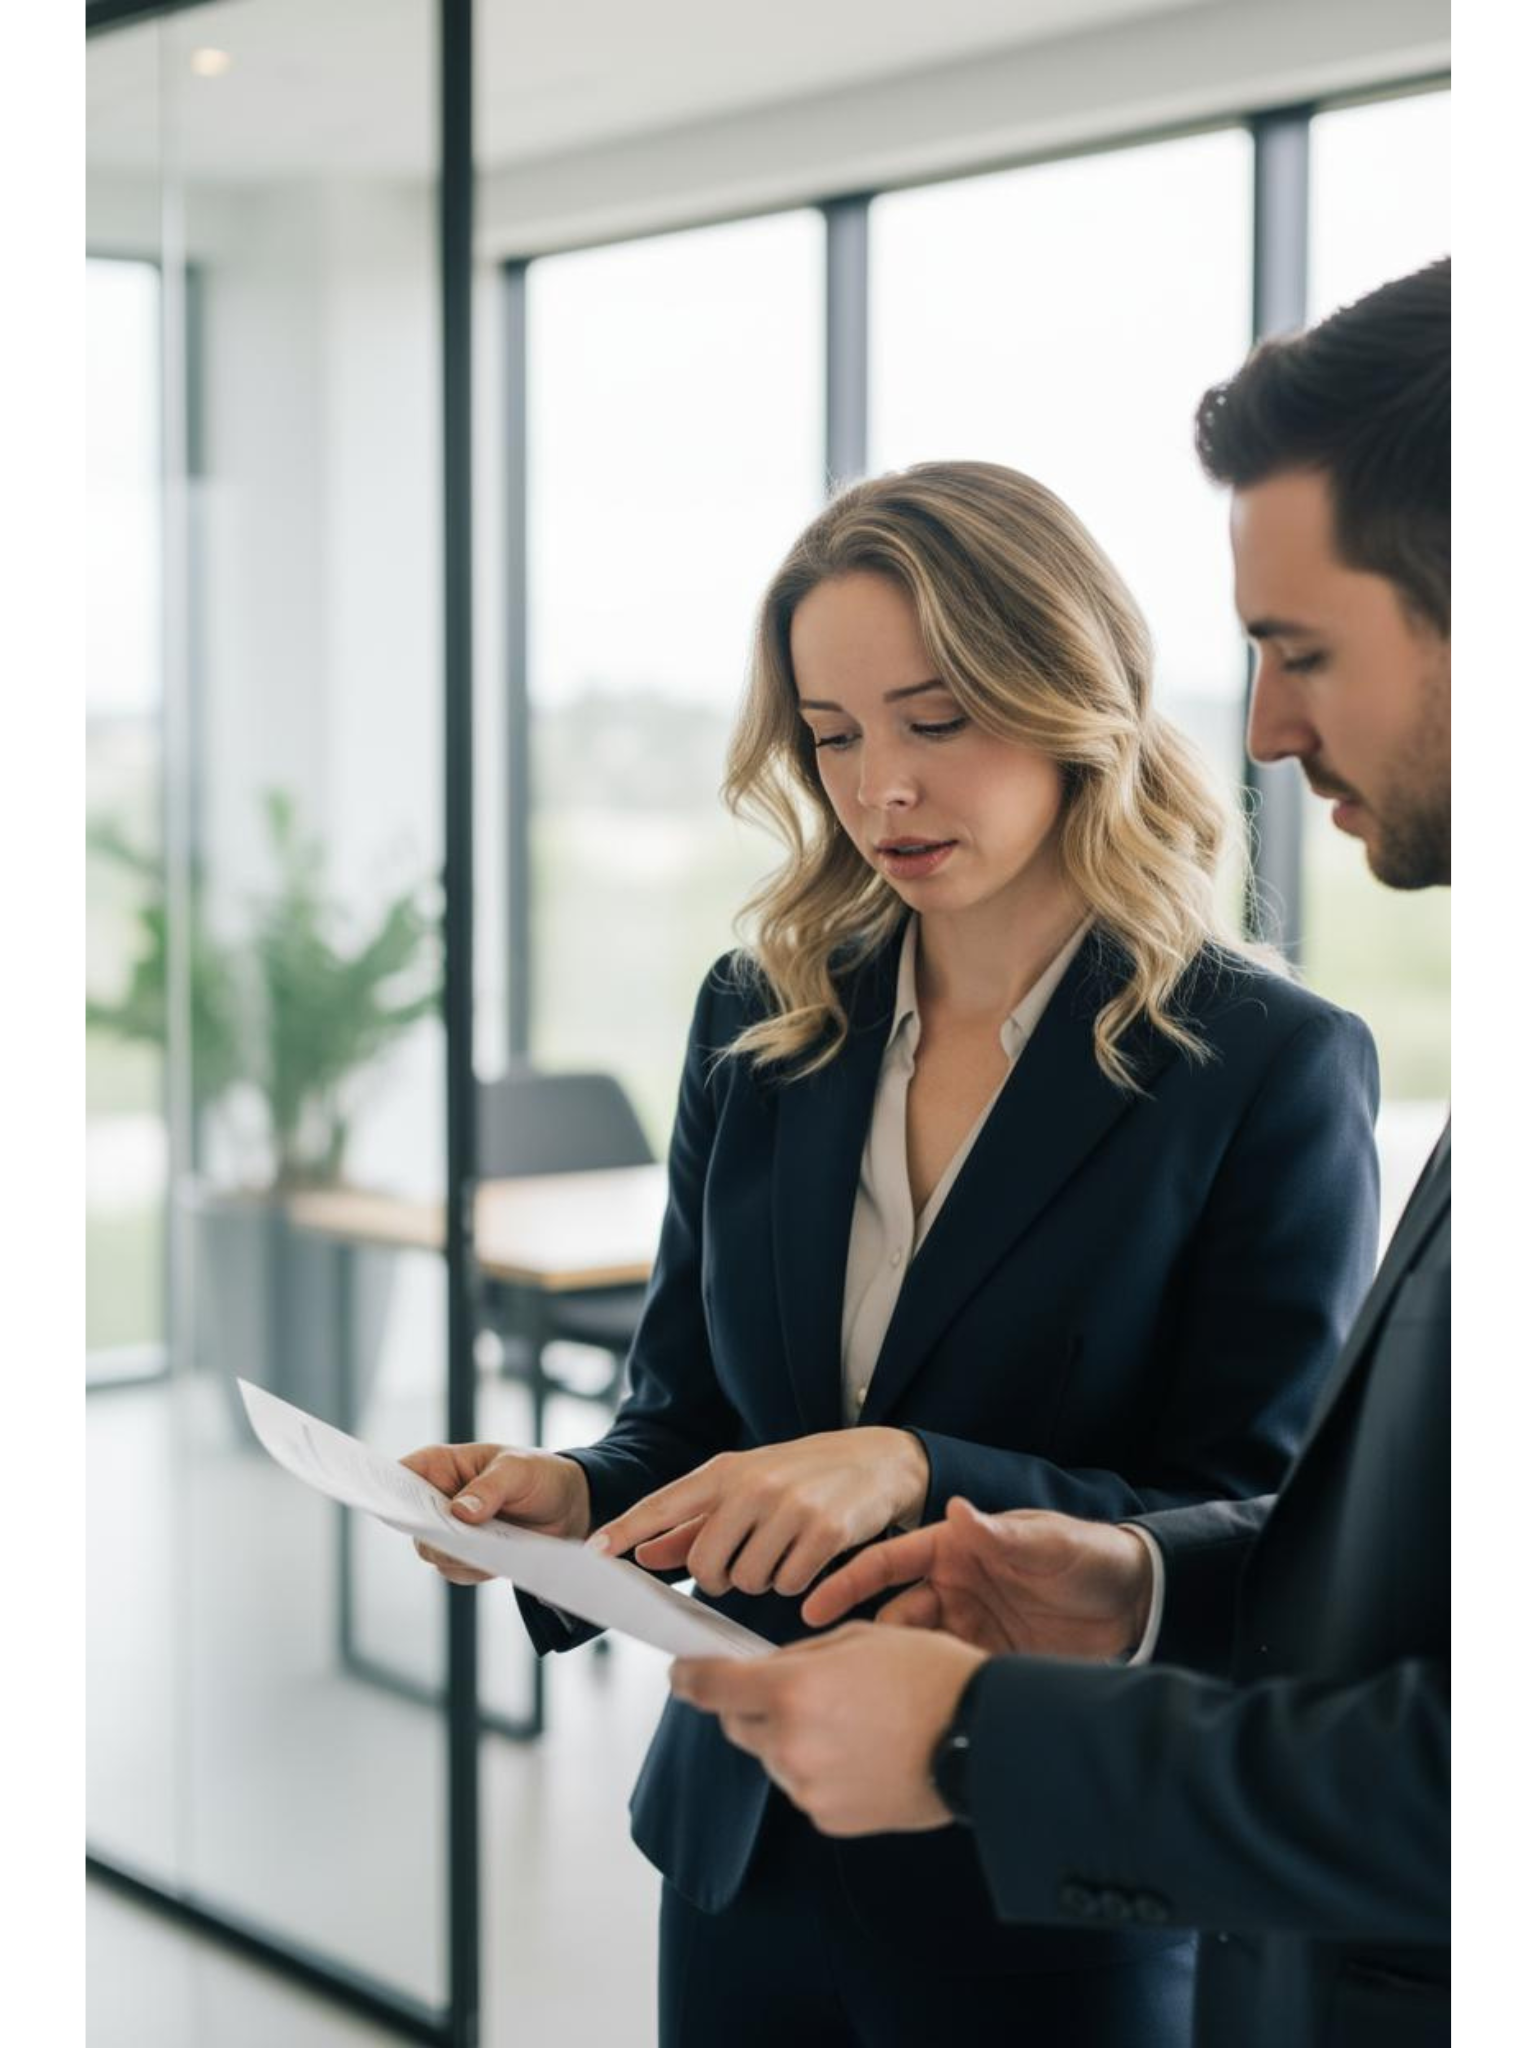
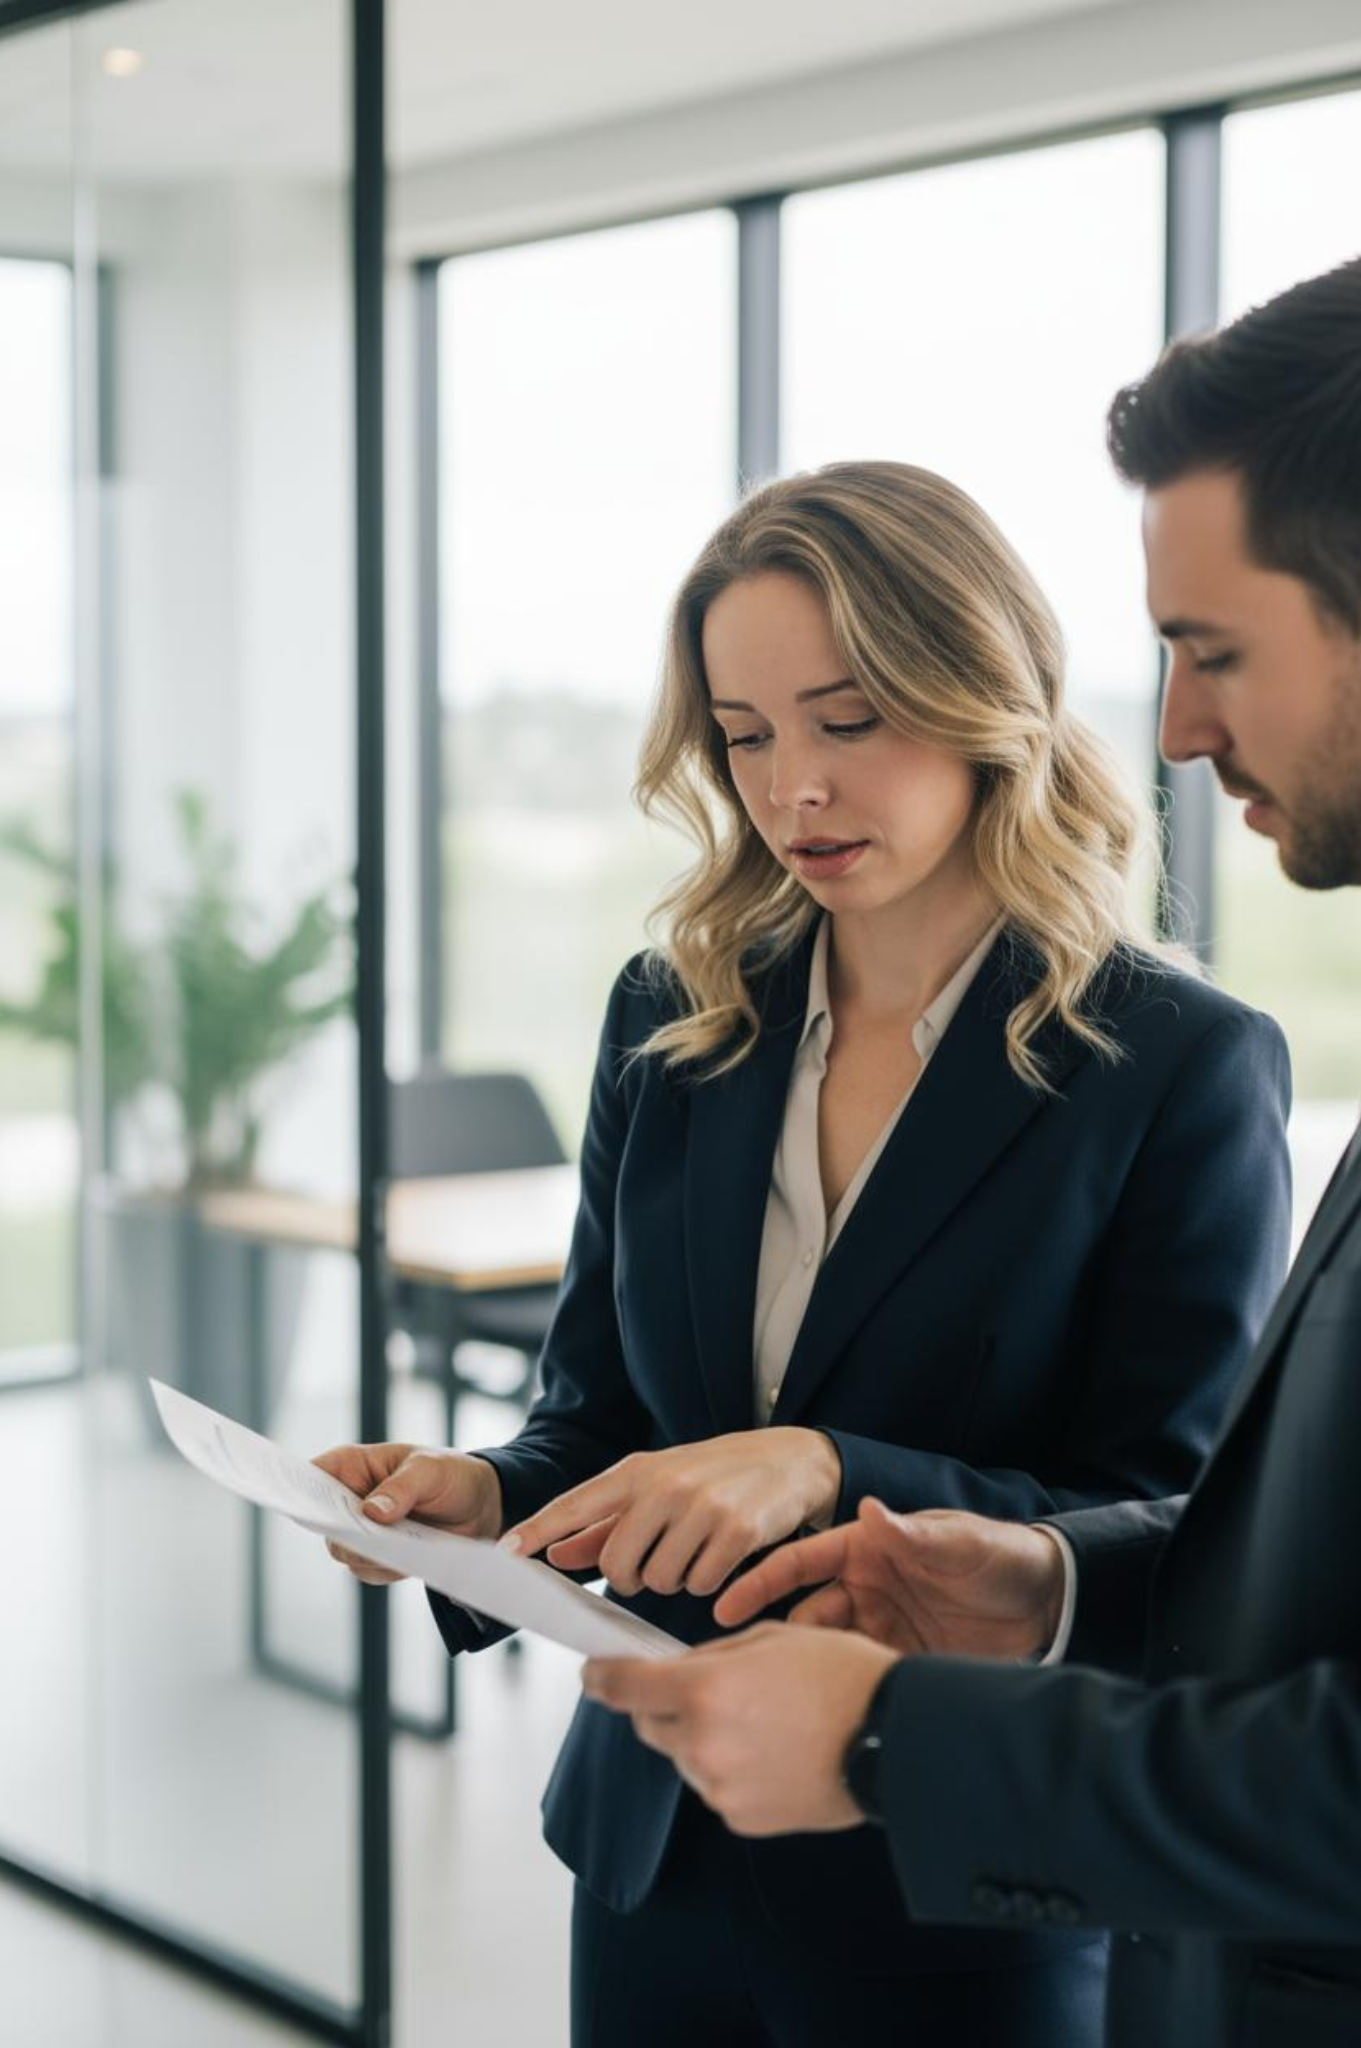
Kundin-Änderungen: Bilder, Portrait, Kontaktzeiten
- KPI-Seite: Bild auf Transformation/KPI.png aktualisiert
- Zoll-Compliance: neues Trade Compliance Bild (statt generische Bilder)
- Neuer Zolloptimierung/-Ordner mit 16:9-Bildern
- Global Trade Bilder mit neuen 16:9-Versionen ersetzt
- Portrait (22.png) ohne weißen Rand aktualisiert
- Kontakt: Zeiten auf Mo–Fr 8–17 Uhr geändert, Abend-Hinweis entfernt

diff --git a/zoll-compliance-en.html b/zoll-compliance-en.html
@@ -87,10 +87,7 @@ s.parentNode.insertBefore(b, s);})(window.lintrk);
   </section>
 
     <section class="section relevante-img-section">
-    <div class="relevante-img-bg relevante-img-bg--split">
-      <div style="background-image:url('Bilder/green-supply-chain.png')" ></div>
-      <div style="background-image:url('Bilder/global-supply-chain.png')" ></div>
-    </div>
+    <div class="relevante-img-bg" style="background-image:url('Zolloptimierung/Trade Compliance.png')"></div>
     <div class="relevante-img-overlay"></div>
     <div class="relevante-img-content">
       <div class="section-header reveal">

diff --git a/zoll-compliance.html b/zoll-compliance.html
@@ -88,10 +88,7 @@ s.parentNode.insertBefore(b, s);})(window.lintrk);
   </section>
 
   <section class="section relevante-img-section">
-    <div class="relevante-img-bg relevante-img-bg--split">
-      <div style="background-image:url('Bilder/green-supply-chain.png')"></div>
-      <div style="background-image:url('Bilder/global-supply-chain.png')"></div>
-    </div>
+    <div class="relevante-img-bg" style="background-image:url('Zolloptimierung/Trade Compliance.png')"></div>
     <div class="relevante-img-overlay"></div>
     <div class="relevante-img-content">
       <div class="section-header reveal">

diff --git a/profil-en.html b/profil-en.html
@@ -83,7 +83,7 @@ s.parentNode.insertBefore(b, s);})(window.lintrk);
   <section class="section">
     <div class="profil-layout">
       <div class="profil-photo">
-        <img src="Bilder/georgiana-portrait.png" alt="Georgiana Bonas, Founder & Managing Director Georalis Consulting">
+        <img src="Bilder/22.png" alt="Georgiana Bonas, Founder & Managing Director Georalis Consulting">
       </div>
       <div class="profil-bio reveal">
         <span class="profil-name">Georgiana Bonas</span>

diff --git a/profil.html b/profil.html
@@ -83,7 +83,7 @@ s.parentNode.insertBefore(b, s);})(window.lintrk);
   <section class="section">
     <div class="profil-layout">
       <div class="profil-photo">
-        <img src="Bilder/georgiana-portrait.png" alt="Georgiana Bonas, Founder & Managing Director Georalis Consulting">
+        <img src="Bilder/22.png" alt="Georgiana Bonas, Founder & Managing Director Georalis Consulting">
       </div>
       <div class="profil-bio reveal">
         <span class="profil-name">Georgiana Bonas</span>

diff --git a/org-kpi-en.html b/org-kpi-en.html
@@ -88,7 +88,7 @@ s.parentNode.insertBefore(b, s);})(window.lintrk);
 
 
   <section class="section relevante-img-section">
-    <div class="relevante-img-bg" style="background-image:url('Bilder/Performance Management.png')"></div>
+    <div class="relevante-img-bg" style="background-image:url('Transformation/KPI.png')"></div>
     <div class="relevante-img-overlay"></div>
     <div class="relevante-img-content">
     <div class="section-header reveal">

diff --git a/org-kpi.html b/org-kpi.html
@@ -88,7 +88,7 @@ s.parentNode.insertBefore(b, s);})(window.lintrk);
 
 
   <section class="section relevante-img-section">
-    <div class="relevante-img-bg" style="background-image:url('Bilder/Performance Management.png')"></div>
+    <div class="relevante-img-bg" style="background-image:url('Transformation/KPI.png')"></div>
     <div class="relevante-img-overlay"></div>
     <div class="relevante-img-content">
     <div class="section-header reveal">

diff --git a/kontakt-en.html b/kontakt-en.html
@@ -126,7 +126,7 @@ s.parentNode.insertBefore(b, s);})(window.lintrk);
 
         <div class="kontakt-detail">
           <span class="label">Availability</span>
-          <p>Mon – Fri, 9:00 am – 6:00 pm<br>Initial calls also available in the evening</p>
+          <p>Mon – Fri, 8:00 am – 5:00 pm</p>
         </div>
 
         <a href="bedarfsanalyse-en.html" class="kontakt-banner">

diff --git a/kontakt.html b/kontakt.html
@@ -133,7 +133,7 @@ s.parentNode.insertBefore(b, s);})(window.lintrk);
 
         <div class="kontakt-detail">
           <span class="label">Verfügbarkeit</span>
-          <p>Mo – Fr, 9:00 – 18:00 Uhr<br>Erstgespräche auch abends möglich</p>
+          <p>Mo – Fr, 8:00 – 17:00 Uhr</p>
         </div>
 
         <a href="bedarfsanalyse.html" class="kontakt-banner">
